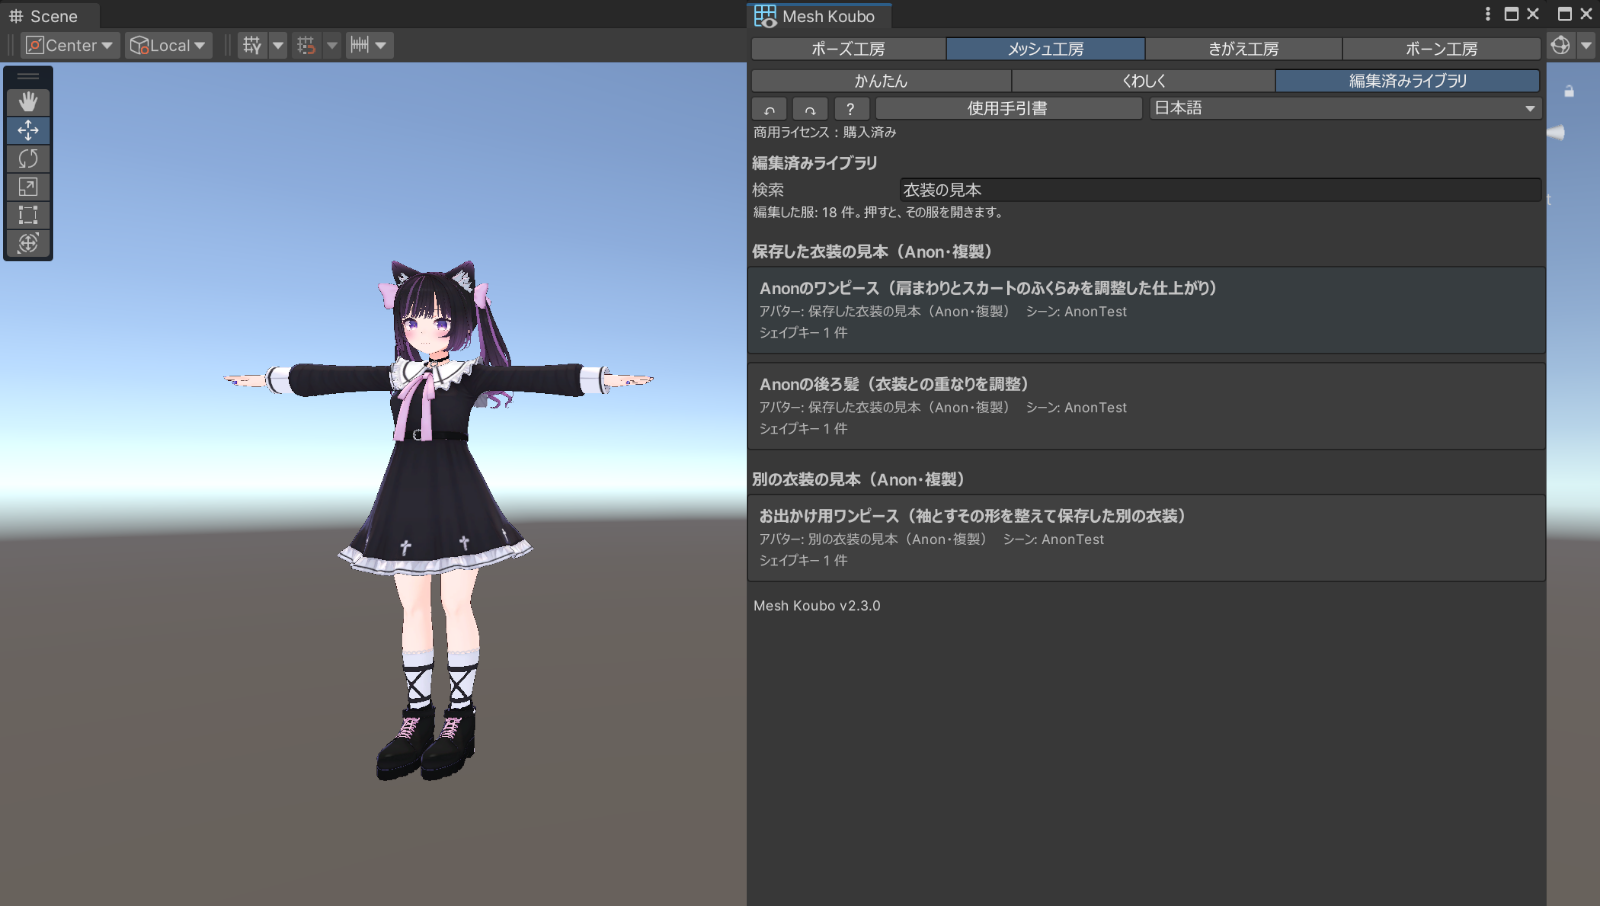
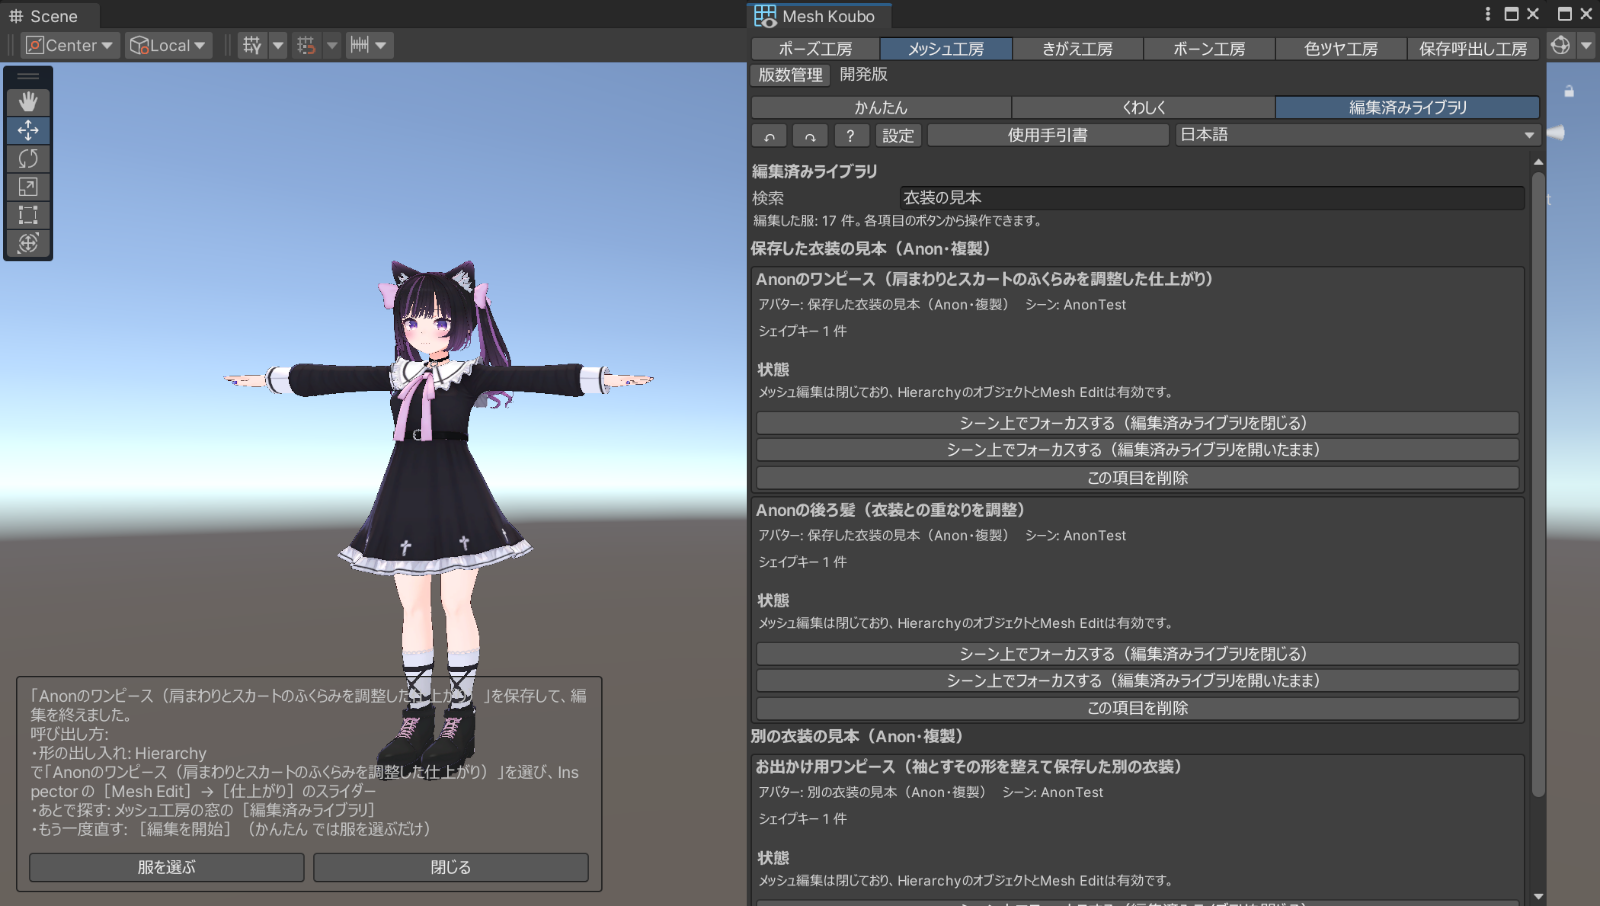
編集済みライブラリの状態説明と削除・フォーカス操作を案内

Changed region(s): [[0.4688, 0.0309, 0.9688, 1.0], [0.0, 0.7417, 0.375, 0.989], [0.1875, 0.9581, 0.2188, 0.989]]

diff --git a/GP13使用手引書.html b/GP13使用手引書.html
@@ -1638,10 +1638,30 @@ OBJ のファイルは、追加なしで書き出せます。
 <h2>編集した服を、あとで探します</h2>
 <p>窓のいちばん上の［編集済みライブラリ］を押すと、編集した服がアバターごとに並びます。
 メニューの Tools &gt; Mesh Koubo &gt; Mesh Edit Target List からも開けます。</p>
-<p><img src="images/v2_67_window_library.png" alt="編集済みライブラリの窓。アバターごとの見出しの下に、服の名前・アバター・シーン・シェイプキーの数を書いたカードが並ぶ" /></p>
-<p>カードを押すと、その服が開きます。
-［かんたん］か［くわしく］を押すと、もとの画面にもどります。
-［検索］には、服やアバターの名前の一部を入れられます。</p>
+<div id="edited-library-actions">
+<p><img src="images/v2_67_window_library.png" alt="編集済みライブラリ。各項目に服の名前と状態の説明、一覧を閉じる・開いたままの2種類のフォーカスボタンと、この項目を削除のボタンが並ぶ" /></p>
+<p>［検索］には、服やアバターの名前、階層のパス、シーン名の一部を入れられます。
+項目の背景や［状態］の文章を押しても、服の選択は変わりません。</p>
+<h3>状態を読みます</h3>
+<p>［状態］には、あてはまる説明が並びます。複数の状態が重なる場合は、両方が表示されます。</p>
+<ul>
+<li>「この項目のメッシュ編集が開いている状態です。」：その服の編集セッションが開いています。</li>
+<li>「Hierarchyで、その服自身または親オブジェクトがOFFになっている状態です。」：服や親オブジェクトが非アクティブです。</li>
+<li>「Inspectorの「Mesh Edit」コンポーネントのチェックがOFFになっている状態です。」：服は残っていますが、Mesh Editが無効です。</li>
+</ul>
+<p>どれにもあてはまらない場合は、メッシュ編集が閉じていて、HierarchyのオブジェクトとMesh Editが有効なことを表示します。</p>
+<h3>服を選んで、編集を開きます</h3>
+<ul>
+<li>［シーン上でフォーカスする（編集済みライブラリを閉じる）］：服を選び、編集を開いて一覧を閉じます。以前の項目全体を押す操作と同じです。</li>
+<li>［シーン上でフォーカスする（編集済みライブラリを開いたまま）］：服を選び、編集を開いて一覧を残します。検索を続けたり、別の項目を選んだりできます。</li>
+</ul>
+<p>シーンビューで服を自動的に映すかは、窓の右上のメニューにある［服を選んだら Scene ビューで映す］の設定に従います。
+［かんたん］か［くわしく］を押すと、編集画面にもどります。</p>
+<h3>項目のメッシュ編集を取り除きます</h3>
+<p>［この項目を削除］を押すと、対象の服の名前が確認画面に出ます。削除を実行すると、その服のMesh Editコンポーネントと開いている編集を取り除き、一覧から項目が消えます。［キャンセル］なら何も削除しません。</p>
+<p>服本体・子オブジェクト・骨は残ります。保存済みの編集データファイル、元のメッシュ・マテリアル、書き出したファイルも残ります。同じ編集データを使う別の服の設定は変わりません。</p>
+<p>削除直後はCtrl+ZでMesh Editコンポーネントと保存済みデータへの参照を戻せます。削除前の編集中セッションは再開しません。保存済みの編集データを再び指定すると、その内容を使えます。</p>
+</div>
 <h2>インスペクターから始める</h2>
 <p>窓を使わずに、インスペクターから始めることもできます。</p>
 <ol>
